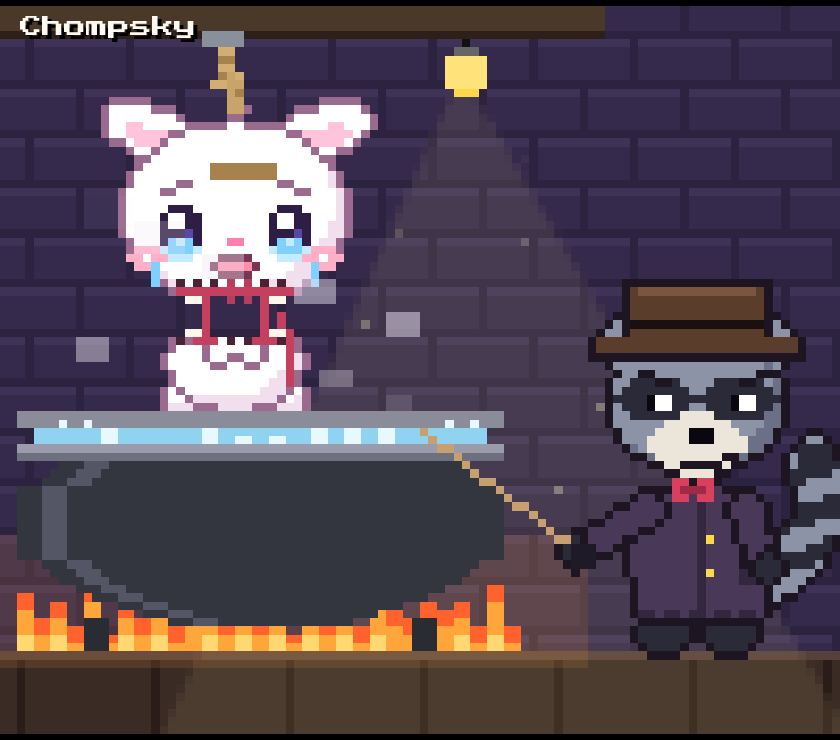
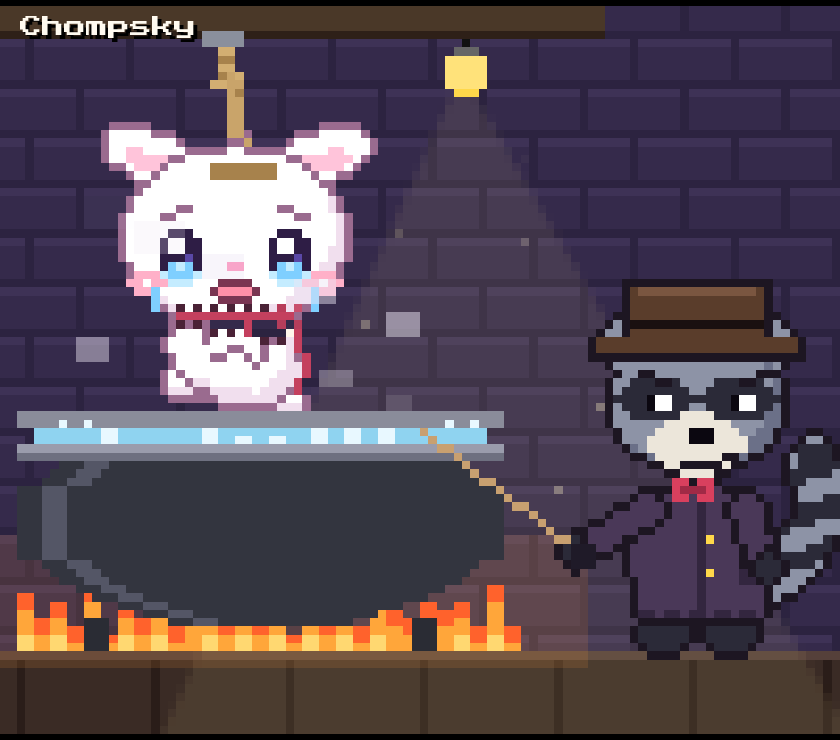
v0.4.11: revived neck tear is a hinge (attached left, peeling open right)

Changed region(s): [[0.0929, 0.1243, 0.4643, 0.5595]]

diff --git a/app/art.js b/app/art.js
@@ -511,31 +511,33 @@ function petAt(ctx, st, t, x, y, opts = {}) {
 const NECK = 27, THREAD = '#c4405e';
 const hash = (a, b) => { let h = (a * 374761393 + b * 668265263) | 0; h = Math.imul(h ^ (h >>> 13), 1274126177); return ((h ^ (h >>> 16)) >>> 0) / 4294967296; };
 function unstitched(ctx, g, X, Y, t, deaths, flip) {
-  const NECK = 28; // one row of chin fur stays on the head so the gap never merges with a wailing mouth
-  const wob = Math.sin(t * 2.6), open = Math.round(4 + Math.min(3, deaths) * 0.6 + Math.max(0, wob) * 1.4); // 5..7 px: clear at phone size, still cute
-  const up = Math.ceil(open / 2), Yh = Y - up; // the rope hoists the head a bit, the body sags the rest
+  // v0.4.11: a hinge. Fully attached on the left; the seam peels open toward the right (0px -> ~2-3px),
+  // as if gravity is tearing the body off the stitches from the right first (body tilts clockwise round the left neck point).
+  const NECK = 28;
   const sx = x => X + (flip ? g.w - 1 - x : x);
-  const sway = Math.round(wob * 0.8); // the body swings a little under the head
-  ctx.save(); ctx.globalAlpha = g.alpha ?? 1;
   let lo = g.w, hi = -1;
   for (let x = 0; x < g.w; x++) if (g.a[NECK * g.w + x]) { lo = Math.min(lo, x); hi = Math.max(hi, x); }
+  const span = Math.max(1, hi - lo), swing = Math.sin(t * 1.8) * 0.4; // tied to the rope's swing
+  const max = 2 + Math.min(3, deaths) * 0.3 + swing; // ~2..3.3 px at the right edge
+  const gap = x => Math.max(0, Math.round(max * Math.max(0, (x - lo) / span) ** 1.3));
+  ctx.save(); ctx.globalAlpha = g.alpha ?? 1;
   for (let y = 0; y < g.h; y++) for (let x = 0; x < g.w; x++) {
     const c = g.a[y * g.w + x]; if (!c) continue;
-    ctx.fillStyle = g.pal[c] || c; ctx.fillRect(sx(x) + (y < NECK ? 0 : sway), Yh + y + (y < NECK ? 0 : open), 1, 1); // head hangs from the rope by the ears, body sags below
+    ctx.fillStyle = g.pal[c] || c; ctx.fillRect(sx(x), Y + y + (y < NECK ? 0 : gap(x)), 1, 1);
   }
-  if (hi > lo) {
-    const a = lo + 2, b = hi - 2; // dark gap, rounded ends, fluffy stuffing tufts at the edges
-    // the gap itself is see-through: the wall shows between head and body
-    ctx.fillStyle = '#fff6ea'; for (const x of [a, a + 1, b - 1, b]) { ctx.fillRect(sx(x), Yh + NECK, 1, 1); ctx.fillRect(sx(x) + sway, Yh + NECK + open - 1, 1, 1); }
-    ctx.fillStyle = THREAD; const cyc = Math.floor(t * 1.2);
-    const xs = [a + Math.round((b - a) * 0.22), Math.round((a + b) / 2), b - Math.round((b - a) * 0.22)];
-    xs.forEach((x, i) => { if (i === 1 && hash(x, cyc) < 0.3) return; // the middle one keeps popping and getting re-tied
-      for (let k = -1; k <= open; k++) ctx.fillRect(sx(x) + (k > open / 2 ? sway : 0), Yh + NECK + k, 1, 1); ctx.fillRect(sx(x) - 1, Yh + NECK - 1, 3, 1); ctx.fillRect(sx(x) - 1 + sway, Yh + NECK + open, 3, 1); });
-    const x0 = b, y0 = NECK + Math.floor(open / 2), ex = x0 + 3 + Math.sin(t * 4) * 3, ey = y0 + 8; // loose thread swinging
-    for (let i = 0; i <= 9; i++) { const u = i / 9; ctx.fillRect(sx(Math.round(x0 + (ex - x0) * u + Math.sin(u * 3) * 0.6)), Yh + Math.round(y0 + (ey - y0) * u), 1, 1); }
-    const p = (t * 1.1) % 1, fx = (a + b) / 2 + p * 8, fy = NECK - p * 10 + p * p * 14; ctx.globalAlpha = (g.alpha ?? 1) * (1 - p); // a popped stitch flies off
-    for (const [dx, dy] of [[0, 0], [1, 1], [-1, 1], [1, -1], [-1, -1]]) ctx.fillRect(sx(Math.round(fx + dx)), Yh + Math.round(fy + dy), 1, 1);
-  }
+  ctx.fillStyle = '#fff6ea'; // a tuft of stuffing where the tear is widest
+  if (hi > lo) { const x = hi - 1, n = gap(x); if (n >= 2) ctx.fillRect(sx(x), Y + NECK + n - 1, 1, 1); }
+  ctx.fillStyle = THREAD;
+  const cyc = Math.floor(t * 1.2);
+  [Math.round(lo + span * 0.62), Math.round(lo + span * 0.86)].forEach((x, i) => {
+    const n = gap(x); if (n < 1) return;
+    if (i === 1 && hash(x, cyc) < 0.35) return; // this one keeps popping
+    for (let k = -1; k <= n; k++) ctx.fillRect(sx(x), Y + NECK + k, 1, 1);
+  });
+  { const p = (t * 1.1) % 1, fx = lo + span * 0.86 + p * 6, fy = NECK - p * 9 + p * p * 13; // popped stitch flying off
+    ctx.globalAlpha = (g.alpha ?? 1) * (1 - p); for (const [dx, dy] of [[0, 0], [1, 1], [-1, 1], [1, -1], [-1, -1]]) ctx.fillRect(sx(Math.round(fx + dx)), Y + Math.round(fy + dy), 1, 1); ctx.globalAlpha = g.alpha ?? 1; }
+  if (hi > lo) { const x0 = hi, y0 = NECK + Math.floor(gap(hi) / 2), ex = x0 + 2 + Math.sin(t * 4) * 2.5, ey = y0 + 7; // loose thread
+    for (let i = 0; i <= 8; i++) { const u = i / 8; ctx.fillRect(sx(Math.round(x0 + (ex - x0) * u + Math.sin(u * 3) * 0.6)), Y + Math.round(y0 + (ey - y0) * u), 1, 1); } }
   ctx.restore();
 }
 // relief: the head is taped back on (masking tape round the neck, a little X, a dangling tab)

diff --git a/app/sw.js b/app/sw.js
@@ -1,5 +1,5 @@
 // Pet Hostage service worker: push notifications + network-first offline cache.
-const CACHE = 'ph-v0.4.10';
+const CACHE = 'ph-v0.4.11';
 const ASSETS = ['./', 'index.html', 'style.css', 'app.js', 'art.js', 'revived.js', 'icons/icon-192.png'];
 self.addEventListener('install', e => { e.waitUntil(caches.open(CACHE).then(c => c.addAll(ASSETS)).catch(() => {})); self.skipWaiting(); });
 self.addEventListener('activate', e => { e.waitUntil(caches.keys().then(ks => Promise.all(ks.filter(k => k !== CACHE).map(k => caches.delete(k)))).then(() => self.clients.claim())); });

diff --git a/app/app.js b/app/app.js
@@ -2,7 +2,7 @@ import { maybeRevived, revivedVars } from './revived.js';
 import { drawScene, drawDeath, drawShelfPet, raccoon, blit, hitBoxes, VIEW_W, VIEW_H, DEATH_LEN, SPECIES } from './art.js';
 
 // ---- tunables ----
-const VERSION = 'v0.4.10';
+const VERSION = 'v0.4.11';
 const GOAL = 10000, FINAL_GOAL = 15000; // the server decides; these are only for demos
 const WORKER = 'https://pet-hostage.silvertibby.workers.dev';
 const APP_URL = 'https://silvertibby.github.io/pet-hostage/';
